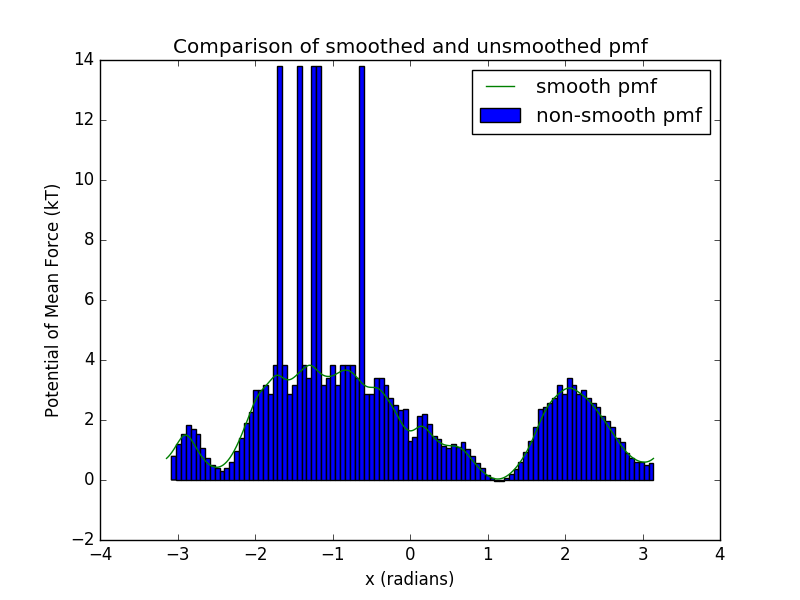
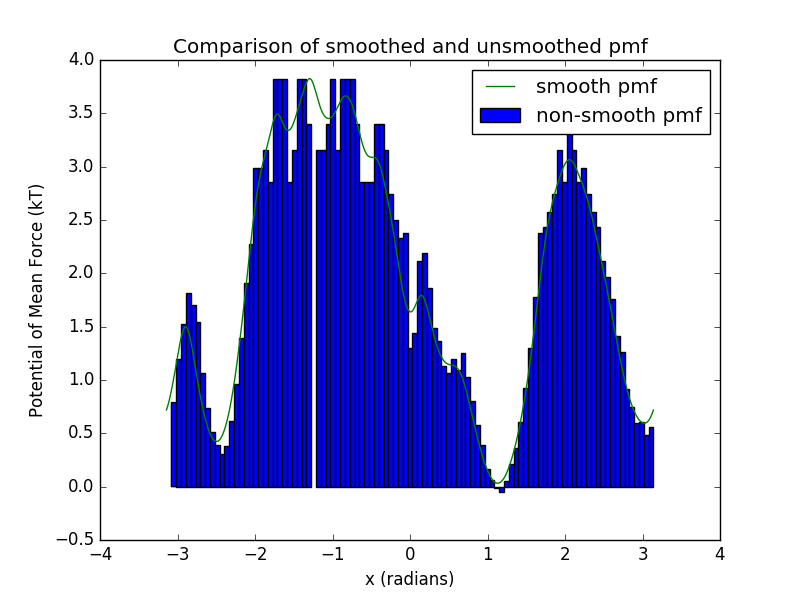
check pmf hist

diff --git a/single-molecule-property-generation/torsion_fitting/fitting_example.py b/single-molecule-property-generation/torsion_fitting/fitting_example.py
@@ -15,7 +15,11 @@ torsion_r48_a = pickle.load(open( "torsion.p", "rb" ))
 plt.figure(1)
 (n1,bins1,patch1) = plt.hist(torsion_r48_a, num_bins, label='AlkEthOH_r48 histogram', color='green', normed=1)
 n1 = np.array(n1)
-n1[n1 == 0] += 1e-10
+for i,j in enumerate(n1):
+    if j == 0:
+        n1[i] = n1[i+1]
+
+print n1
 
 
 
